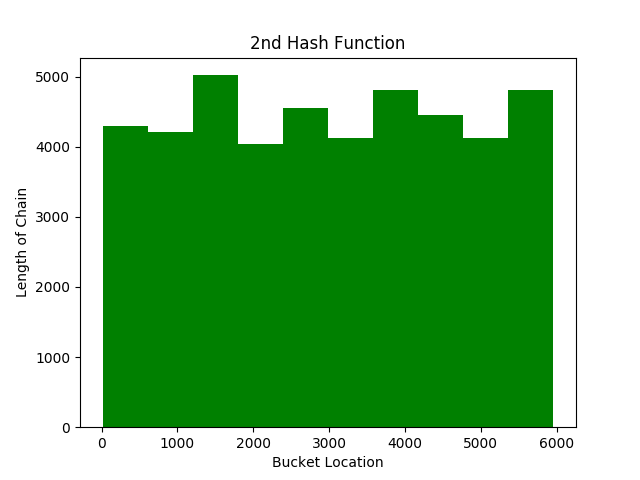
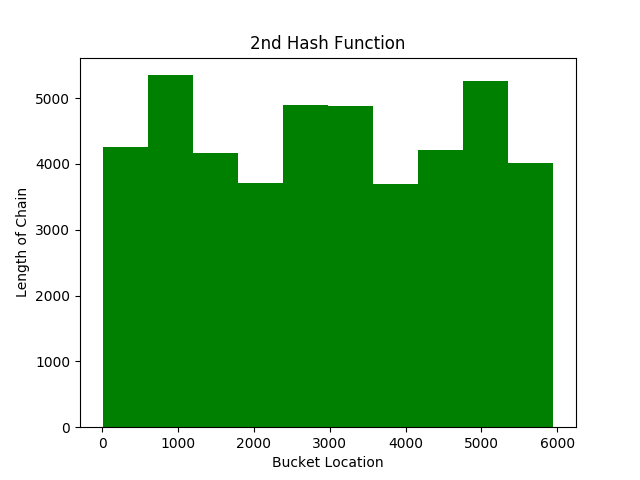
Created new plots

diff --git a/Assignments/Assignment_PS11a/Rondini-Konlan-PS11-Q1.py b/Assignments/Assignment_PS11a/Rondini-Konlan-PS11-Q1.py
@@ -86,13 +86,14 @@ def main(args):
 
 	#Histogram of hash1
 	list_from_hash1 = []
+	length_of_chains_1 = [0 for i in range(num_buckets)]
 	longest_chain_from_hash1 = []
 	for i in range(len(random_names)):
 		new_index = hash1(random_names[i], dict_of_letters, num_buckets)
 		list_from_hash1.append(new_index)
-		# max_chain = max([len(list(group)) for key, group in groupby(list_from_hash1)])
-		# longest_chain_from_hash1.append(max_chain)
-		print(list_from_hash1[i])
+		length_of_chains_1[new_index] += 1
+		longest_chain_from_hash1.append(max(length_of_chains_1))
+
 
 	plt.hist(list_from_hash1, color="orange")
 	plt.xlabel("Bucket Location")
@@ -105,10 +106,14 @@ def main(args):
 
 	#Histogram of hash2
 	list_from_hash2 = []
+	length_of_chains_2 = [0 for i in range(num_buckets)]
+	longest_chain_from_hash2 = []
 	for i in range(len(random_names)):
 		new_index = hash2(random_names[i], dict_of_letters, num_buckets, univ_random_int)
 		list_from_hash2.append(new_index)
-		print(list_from_hash2[i])
+		length_of_chains_2[new_index] += 1
+		longest_chain_from_hash2.append(max(length_of_chains_2))
+
 
 	plt.hist(list_from_hash2, color="green")
 	plt.xlabel("Bucket Location")
@@ -118,7 +123,18 @@ def main(args):
 	plt.show()
 
 #~~~~~~~~~~~~~~~~~~~~~~~~~~~~~~~~~~~~~~~~~~~~~~~~~~~~~~~~~~~~~~~~~~~~~~~~~~~~~~~~~~~~~~#
+	
+	#Plot for Q1c
+	plt.plot(longest_chain_from_hash1)
+	plt.title("Longest Chain from Hash 1")
+	plt.savefig("Longest_Chain_Hash1.png")
+	plt.show()
 
+	#Plot for Q1d
+	plt.plot(longest_chain_from_hash2)
+	plt.title("Longest Chain from Hash 2")
+	plt.savefig("Longest_Chain_Hash2.png")
+	plt.show()	
 
 	return 0
 
